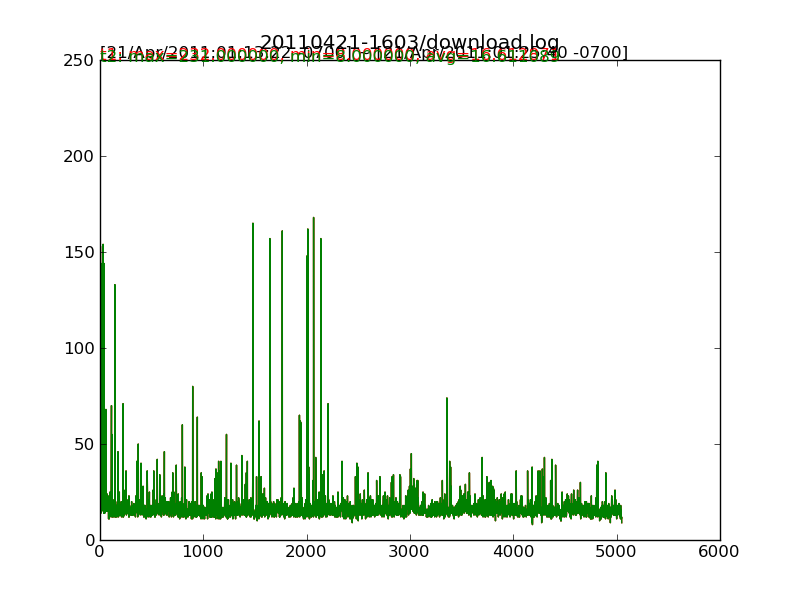
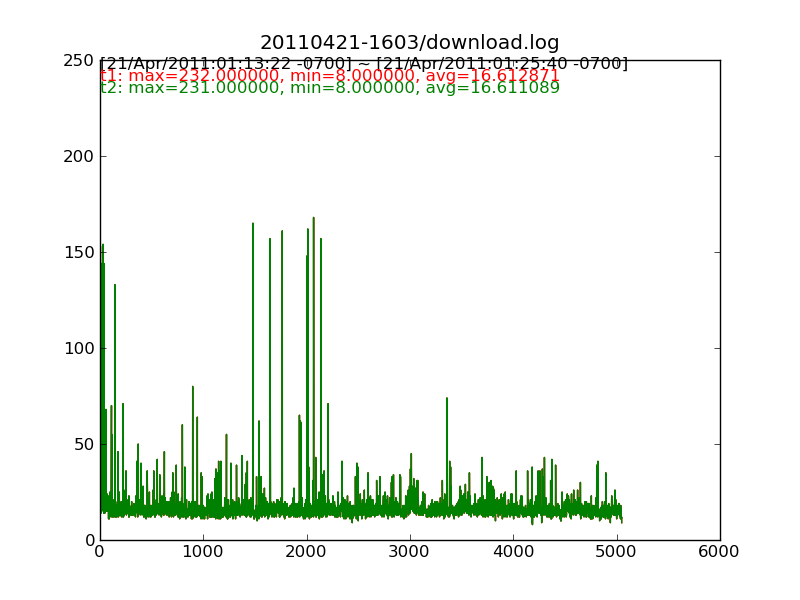
MODIFY plot.py

Changed region(s): [[0.125, 0.06, 0.7812, 0.18]]

diff --git a/gae-script/myblob/plot.py b/gae-script/myblob/plot.py
@@ -50,7 +50,8 @@ axis([0, n_data, 0, height])
 plot(t1, color='r')
 plot(t2, color='g')
 ymin, ymax = ylim()
-text(0, ymax-1, '%s ~ %s' % (st_time, ed_time))
-text(0, ymax-2, '%2s: max=%f, min=%f, avg=%f' % stat_tuple('t1', t1), color='r')
-text(0, ymax-3, '%2s: max=%f, min=%f, avg=%f' % stat_tuple('t2', t2), color='g')
+unit = (ymax - ymin) / 40
+text(0, ymax-unit*1, '%s ~ %s' % (st_time, ed_time))
+text(0, ymax-unit*2, '%2s: max=%f, min=%f, avg=%f' % stat_tuple('t1', t1), color='r')
+text(0, ymax-unit*3, '%2s: max=%f, min=%f, avg=%f' % stat_tuple('t2', t2), color='g')
 savefig('%s.png' % sys.argv[1], format='png')
